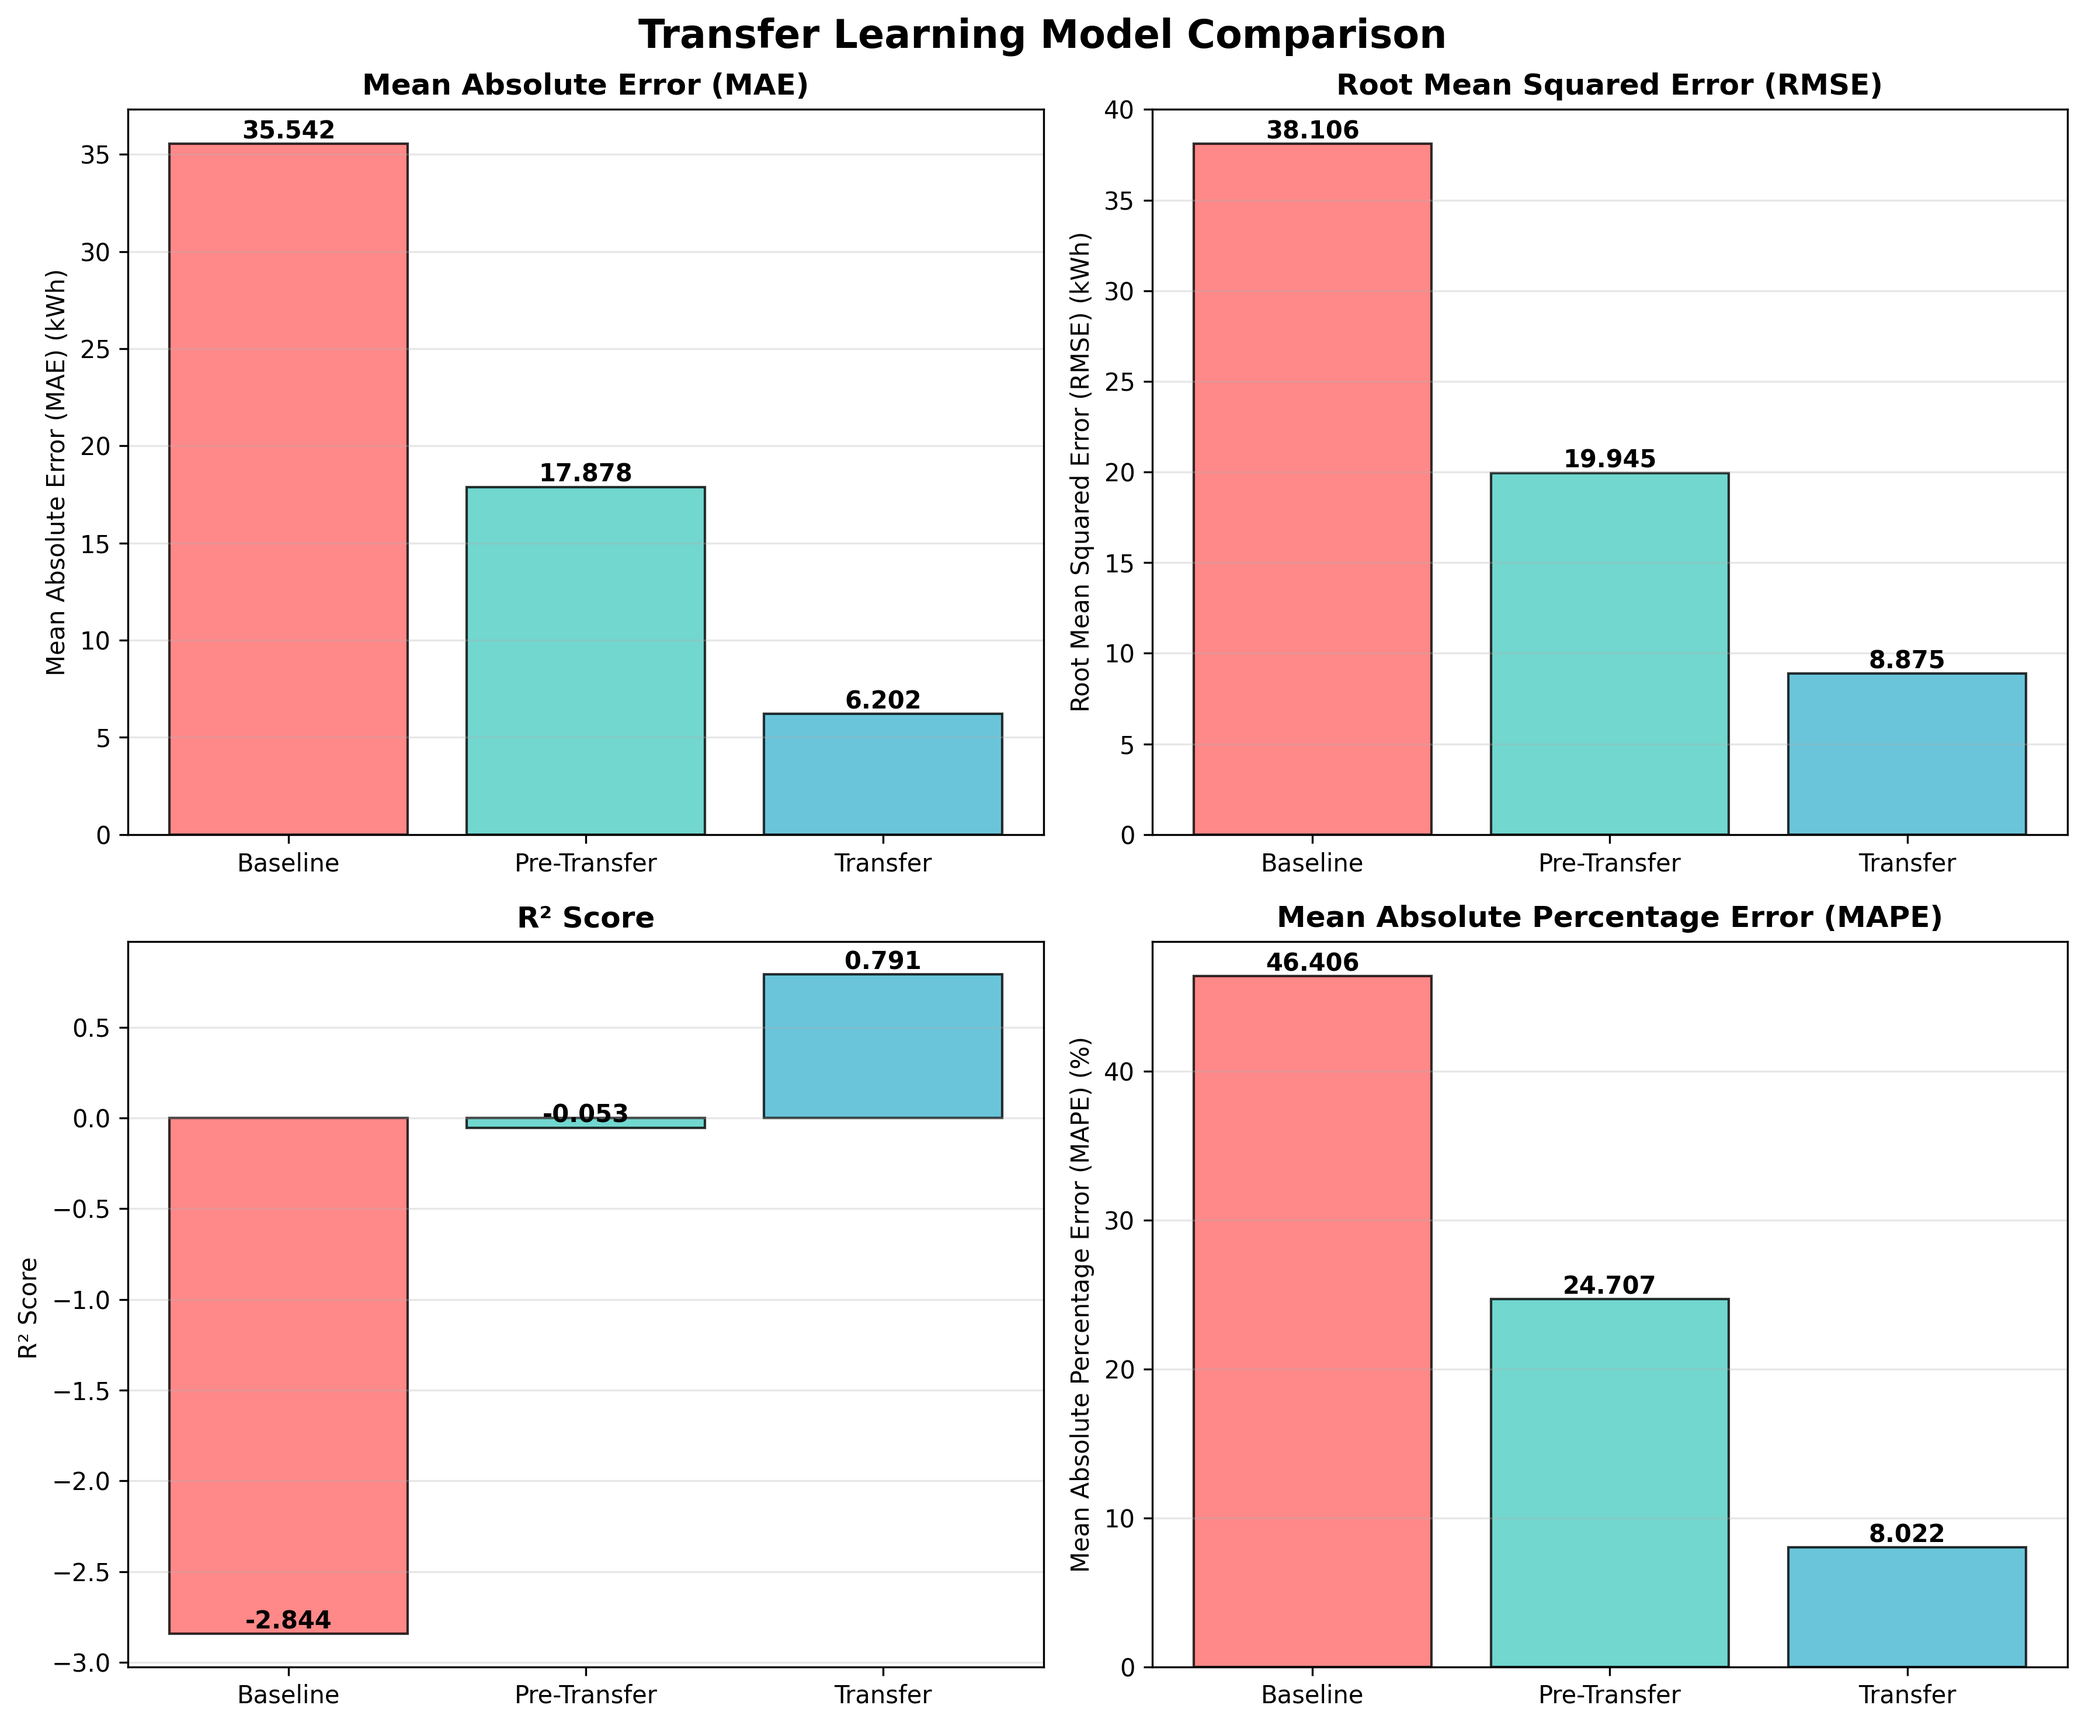
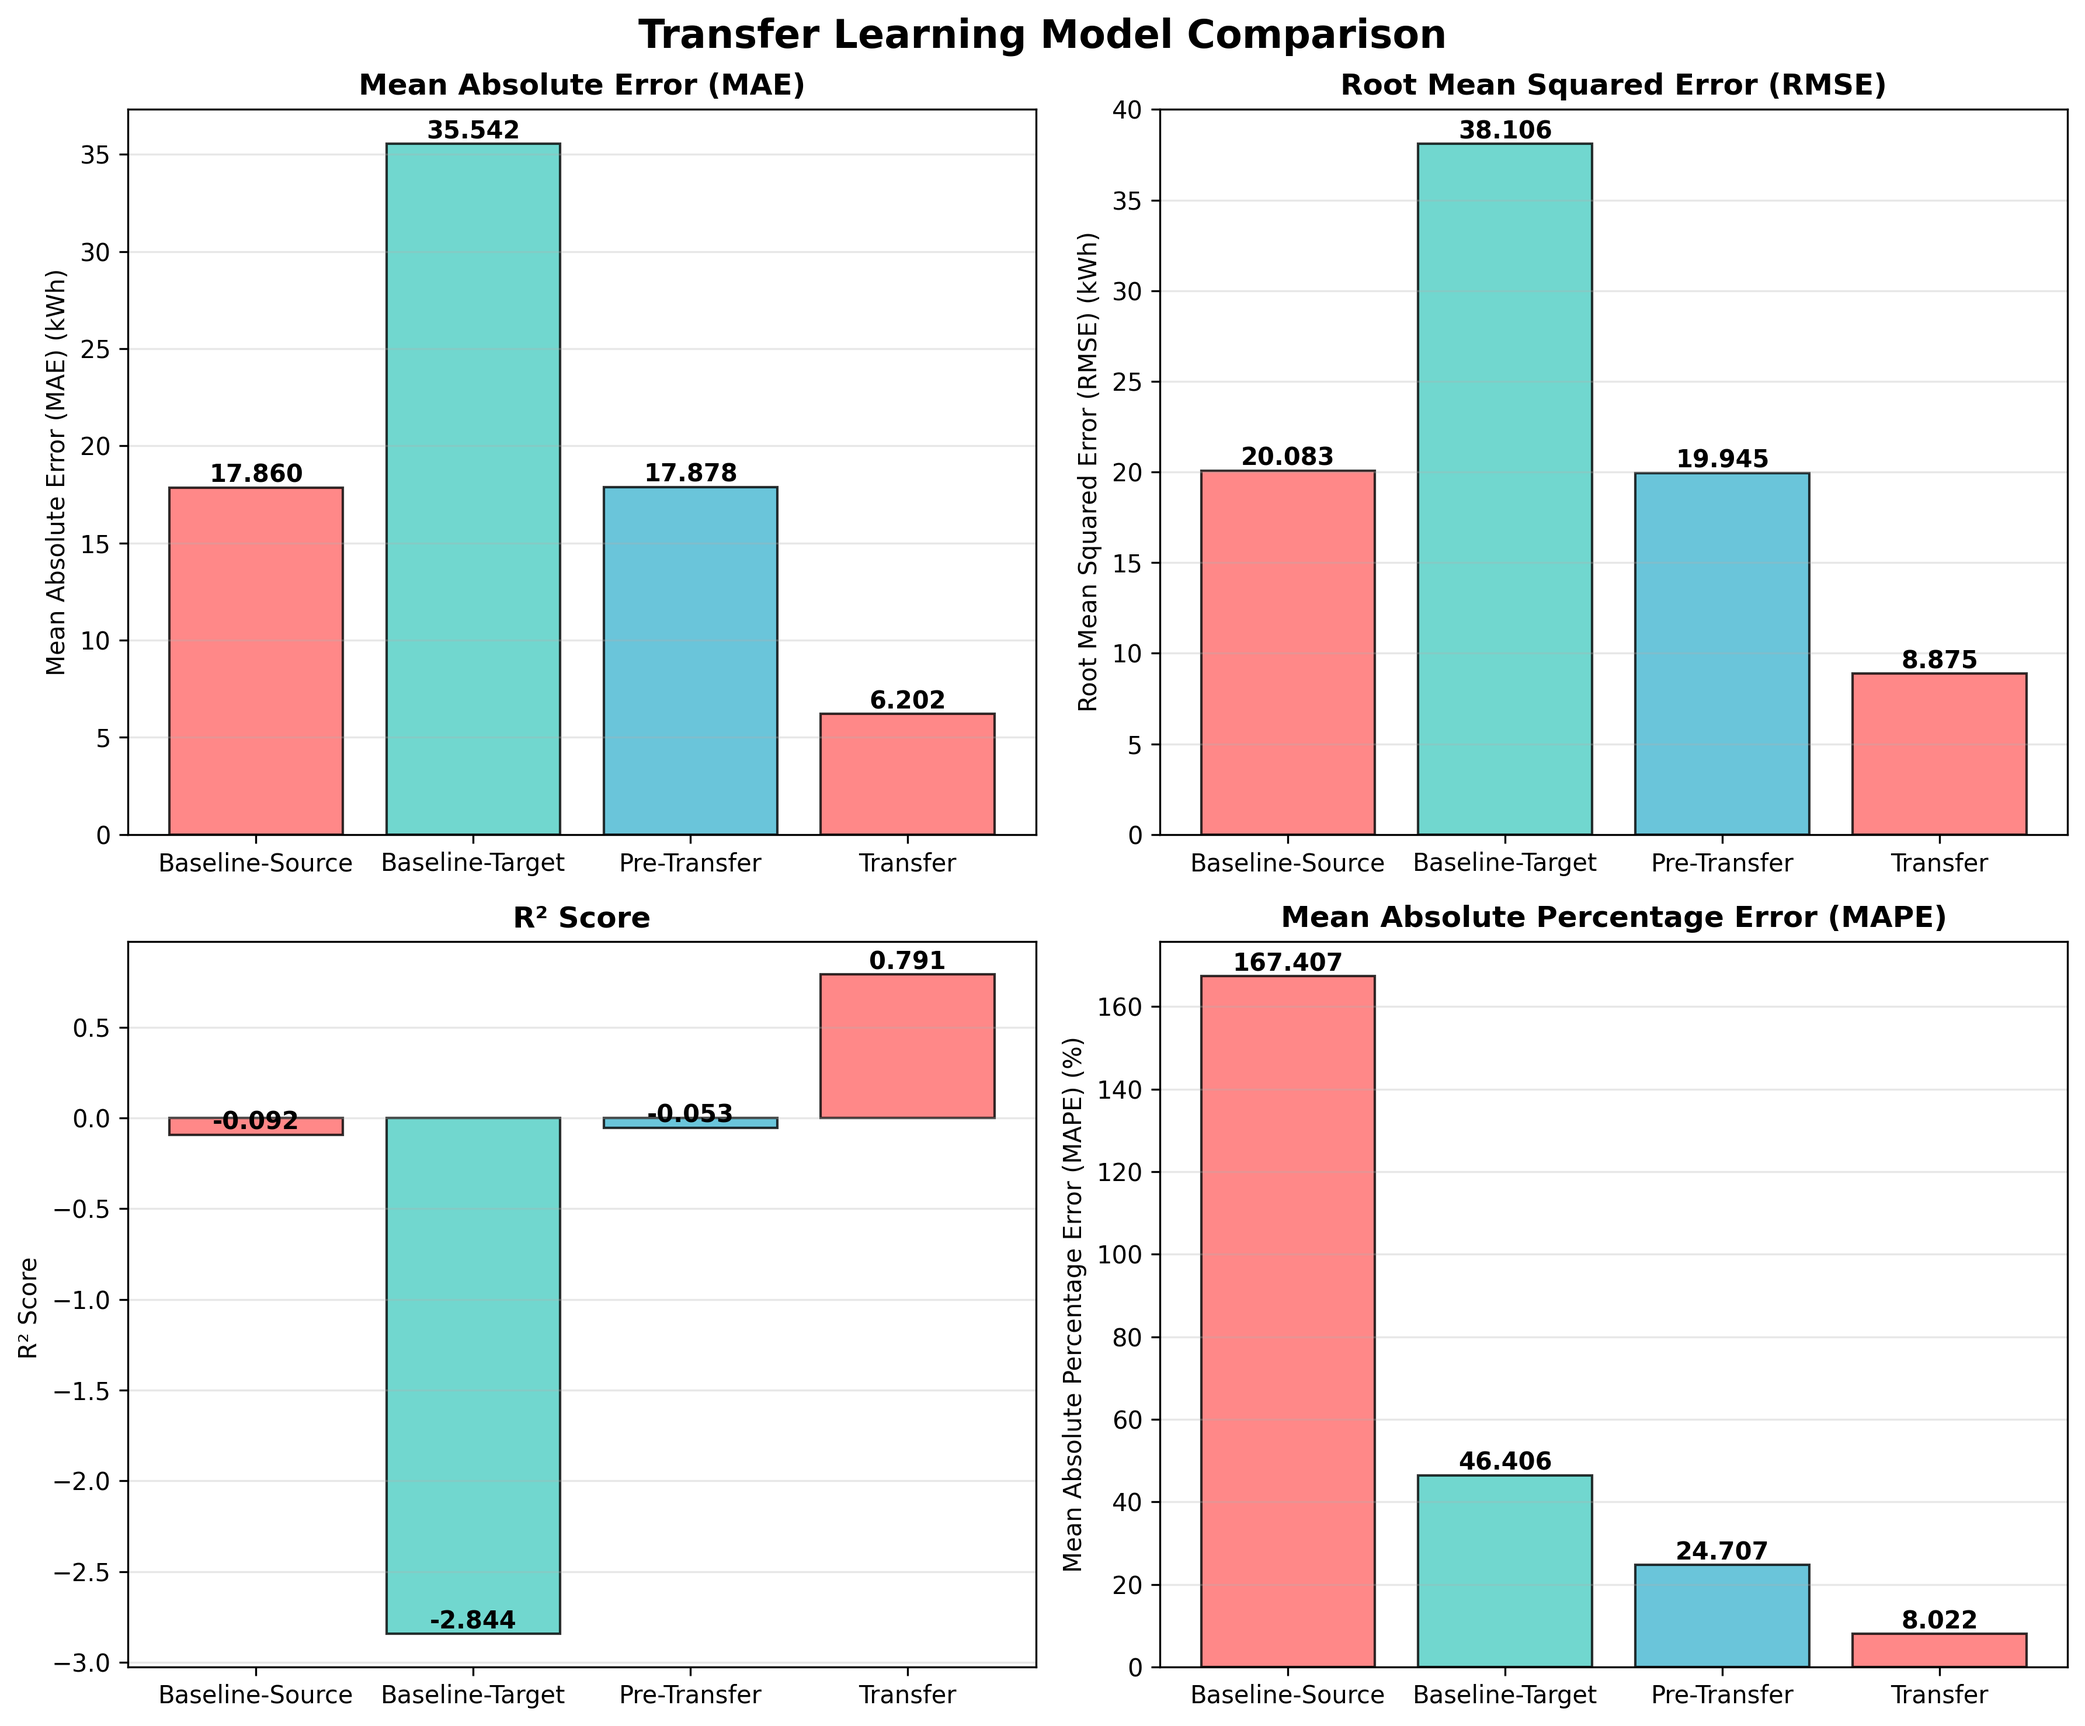
proper evaluation

diff --git a/evaluate_all_models.py b/evaluate_all_models.py
@@ -1,12 +1,52 @@
 """
-Comprehensive 3-Model Evaluation Script
+Comprehensive Transfer Learning Evaluation Script
 
-Compares three models on the same target building with limited data:
-1. Baseline Model - Trained on 2 years of data from source building
-2. Pre-Transfer Model - Trained from scratch on limited target data (1 month)
-3. Transfer Model - Fine-tuned from baseline on limited target data (1 month)
+EVALUATION SETUP:
+==================
 
-This demonstrates the value of transfer learning.
+MODELS EVALUATED:
+1. Baseline Model (2 evaluations):
+   - Baseline-Source: Evaluated on SOURCE building (Rat_education_Colin) where it was trained
+     * Purpose: Shows best-case performance with abundant training data
+   - Baseline-Target: Evaluated on TARGET building (Rat_education_Denise) - NEW building
+     * Purpose: Shows cross-building generalization (domain shift)
+
+2. Pre-Transfer Model:
+   - Trained from scratch on 1 month of TARGET building data
+   - Evaluated on TARGET building
+   - Purpose: Control group - performance WITHOUT transfer learning
+
+3. Transfer Model:
+   - Fine-tuned from baseline on 1 month of TARGET building data
+   - Evaluated on TARGET building
+   - Purpose: Experimental group - performance WITH transfer learning
+
+KEY COMPARISONS:
+================
+
+1. Baseline-Source vs Baseline-Target:
+   → Measures domain shift penalty (how much performance drops on new building)
+
+2. Pre-Transfer vs Transfer (MAIN COMPARISON):
+   → Measures transfer learning effectiveness
+   → Both use SAME limited data (1 month)
+   → Both evaluated on SAME building (target)
+   → Difference shows pure benefit of transfer learning
+
+3. Baseline-Target vs Pre-Transfer:
+   → Compares: lots of data on different building vs little data on same building
+
+4. Baseline-Target vs Transfer:
+   → Shows if fine-tuning baseline on limited target data beats using baseline as-is
+
+EXPECTED RESULTS:
+=================
+Baseline-Source: Best performance (trained and tested on same building)
+Baseline-Target: Moderate (domain shift from Colin to Denise)
+Pre-Transfer: Variable (limited data, no transfer)
+Transfer: Should beat Pre-Transfer (transfer learning benefit)
+
+Ideal outcome: Transfer > Pre-Transfer (proves transfer learning helps!)
 """
 
 import sys
@@ -91,13 +131,15 @@ def print_evaluation_results(results):
     print(f"{'='*70}")
 
 
-def compare_all_models(baseline_results, pretransfer_results, transfer_results):
-    """Compare all three models"""
-    print(f"\n{'='*90}")
-    print(f"  THREE-MODEL COMPARISON: Transfer Learning Effectiveness")
-    print(f"{'='*90}")
-    print(f"{'Metric':<25} {'Baseline':<15} {'Pre-Transfer':<15} {'Transfer':<15} {'Improvement'}")
-    print(f"{'-'*90}")
+def compare_all_models(baseline_source_results, baseline_target_results, pretransfer_results, transfer_results):
+    """Compare all models with baseline evaluated on both source and target buildings"""
+    print(f"\n{'='*110}")
+    print(f"  COMPREHENSIVE MODEL COMPARISON: Transfer Learning Effectiveness")
+    print(f"{'='*110}")
+    print(f"\nNOTE: All models evaluated on TARGET building (Rat_education_Denise) test set,")
+    print(f"      except 'Baseline-Source' which is evaluated on SOURCE building (Rat_education_Colin).")
+    print(f"\n{'Metric':<20} {'Baseline-Source':<17} {'Baseline-Target':<17} {'Pre-Transfer':<15} {'Transfer':<15} {'TL Gain'}")
+    print(f"{'-'*110}")
     
     metrics = [
         ('MAE (kWh)', 'mae'),
@@ -110,7 +152,8 @@ def compare_all_models(baseline_results, pretransfer_results, transfer_results):
     improvements = {}
     
     for metric_name, metric_key in metrics:
-        baseline_val = baseline_results[metric_key]
+        baseline_source_val = baseline_source_results[metric_key]
+        baseline_target_val = baseline_target_results[metric_key]
         pretransfer_val = pretransfer_results[metric_key]
         transfer_val = transfer_results[metric_key]
         
@@ -127,21 +170,25 @@ def compare_all_models(baseline_results, pretransfer_results, transfer_results):
         improvements[metric_key] = improvement
         
         # Handle NaN values
-        baseline_str = f"{baseline_val:.4f}" if not np.isnan(baseline_val) else "N/A"
+        baseline_source_str = f"{baseline_source_val:.4f}" if not np.isnan(baseline_source_val) else "N/A"
+        baseline_target_str = f"{baseline_target_val:.4f}" if not np.isnan(baseline_target_val) else "N/A"
         pretransfer_str = f"{pretransfer_val:.4f}" if not np.isnan(pretransfer_val) else "N/A"
         transfer_str = f"{transfer_val:.4f}" if not np.isnan(transfer_val) else "N/A"
         
-        print(f"{metric_name:<25} {baseline_str:>13} {pretransfer_str:>13} {transfer_str:>13}   "
+        print(f"{metric_name:<20} {baseline_source_str:>15} {baseline_target_str:>15} {pretransfer_str:>13} {transfer_str:>13}   "
               f"{improvement:>6.1f}% {better}")
     
-    print(f"{'='*90}")
+    print(f"{'='*110}")
     
     # Summary
-    print(f"\nKEY FINDINGS:")
-    print(f"1. Baseline Model: Trained on 2 years of source building data")
-    print(f"2. Pre-Transfer Model: Trained from scratch on 1 month of target building data")
-    print(f"3. Transfer Model: Fine-tuned baseline on 1 month of target building data")
-    print(f"\nTransfer Learning Improvement:")
+    print(f"\n" + "="*110)
+    print(f"  KEY FINDINGS & INTERPRETATION")
+    print(f"="*110)
+    print(f"\n1. Baseline-Source: Baseline model on its training building (best-case performance)")
+    print(f"2. Baseline-Target: Baseline model on NEW building (cross-building generalization)")
+    print(f"3. Pre-Transfer: Train from scratch on 1 month of target building data")
+    print(f"4. Transfer: Fine-tune baseline on 1 month of target building data")
+    print(f"\nTRANSFER LEARNING EFFECTIVENESS (Transfer vs Pre-Transfer):")
     
     if improvements['rmse'] > 0:
         print(f"  ✓ RMSE reduced by {improvements['rmse']:.1f}% compared to pre-transfer")
@@ -269,32 +316,50 @@ def main():
     transfer_model = EnergyLSTM.load_from_checkpoint(transfer_model_path)
     print("✓ All models loaded")
     
-    # Prepare test data
-    print("\nPreparing test data...")
+    # Prepare test data for SOURCE building (where baseline was trained)
+    print("\nPreparing test data for SOURCE building (Rat_education_Colin)...")
+    source_building = 'Rat_education_Colin'
+    # Use full 2 years for source building evaluation
+    source_train_loader, source_val_loader, source_test_loader = prepare_test_data(
+        source_building, data_limit_months=24, seq_length=336, architecture_match=baseline_model_path
+    )
+    print(f"✓ Source building test data ready: {len(source_test_loader.dataset)} samples")
+    
+    # Prepare test data for TARGET building
+    print("\nPreparing test data for TARGET building (Rat_education_Denise)...")
     train_loader, val_loader, test_loader = prepare_test_data(
         target_building, data_limit_months, seq_length, baseline_model_path
     )
-    print(f"✓ Test data ready: {len(test_loader.dataset)} samples")
+    print(f"✓ Target building test data ready: {len(test_loader.dataset)} samples")
     
     # Evaluate all models
     print("\n" + "="*90)
-    print("  EVALUATING MODELS ON TARGET BUILDING TEST SET")
+    print("  EVALUATING MODELS")
     print("="*90)
     
-    baseline_results = evaluate_model(baseline_model, test_loader, 
-                                     "1. BASELINE MODEL (1 year source data)")
-    print_evaluation_results(baseline_results)
+    print("\n[1/4] Evaluating Baseline on SOURCE building (where it was trained)...")
+    baseline_source_results = evaluate_model(baseline_model, source_test_loader, 
+                                            "BASELINE on SOURCE (Rat_education_Colin)")
+    print_evaluation_results(baseline_source_results)
     
+    print("\n[2/4] Evaluating Baseline on TARGET building (cross-building transfer)...")
+    baseline_target_results = evaluate_model(baseline_model, test_loader, 
+                                           "BASELINE on TARGET (Rat_education_Denise)")
+    print_evaluation_results(baseline_target_results)
+    
+    print("\n[3/4] Evaluating Pre-Transfer on TARGET building...")
     pretransfer_results = evaluate_model(pretransfer_model, test_loader,
-                                        "2. PRE-TRANSFER MODEL (1 month target, no transfer)")
+                                        "PRE-TRANSFER on TARGET (1 month, no transfer)")
     print_evaluation_results(pretransfer_results)
     
+    print("\n[4/4] Evaluating Transfer on TARGET building...")
     transfer_results = evaluate_model(transfer_model, test_loader,
-                                     "3. TRANSFER MODEL (1 month target + transfer)")
+                                     "TRANSFER on TARGET (1 month + transfer)")
     print_evaluation_results(transfer_results)
     
     # Compare all models
-    improvements = compare_all_models(baseline_results, pretransfer_results, transfer_results)
+    improvements = compare_all_models(baseline_source_results, baseline_target_results, 
+                                     pretransfer_results, transfer_results)
     
     # Save results
     print("\nSaving results...")
@@ -303,15 +368,26 @@ def main():
     
     comparison_df = pd.DataFrame([
         {
-            'model': 'Baseline',
-            'description': '2 years source building data',
-            'mae': baseline_results['mae'],
-            'rmse': baseline_results['rmse'],
-            'r2': baseline_results['r2'],
-            'mape': baseline_results['mape']
+            'model': 'Baseline-Source',
+            'building': 'Rat_education_Colin (source)',
+            'description': '2 years, evaluated on training building',
+            'mae': baseline_source_results['mae'],
+            'rmse': baseline_source_results['rmse'],
+            'r2': baseline_source_results['r2'],
+            'mape': baseline_source_results['mape']
+        },
+        {
+            'model': 'Baseline-Target',
+            'building': 'Rat_education_Denise (target)',
+            'description': '2 years source, evaluated on NEW building',
+            'mae': baseline_target_results['mae'],
+            'rmse': baseline_target_results['rmse'],
+            'r2': baseline_target_results['r2'],
+            'mape': baseline_target_results['mape']
         },
         {
             'model': 'Pre-Transfer',
+            'building': 'Rat_education_Denise (target)',
             'description': '1 month target data (no transfer)',
             'mae': pretransfer_results['mae'],
             'rmse': pretransfer_results['rmse'],
@@ -320,6 +396,7 @@ def main():
         },
         {
             'model': 'Transfer',
+            'building': 'Rat_education_Denise (target)',
             'description': '1 month target data + transfer learning',
             'mae': transfer_results['mae'],
             'rmse': transfer_results['rmse'],
